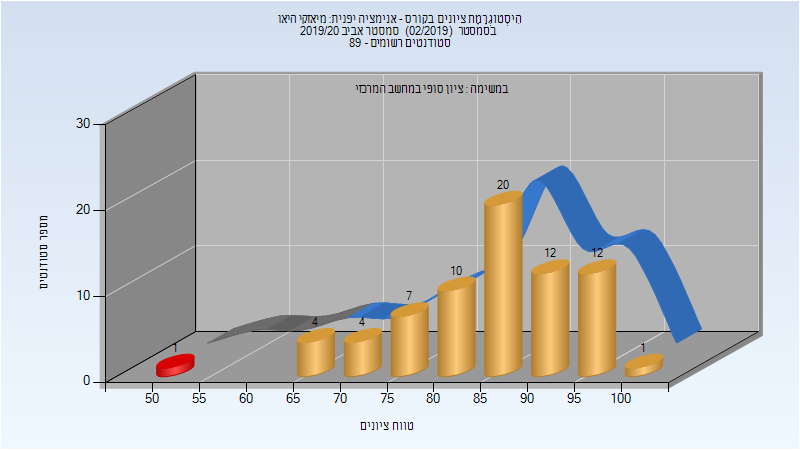
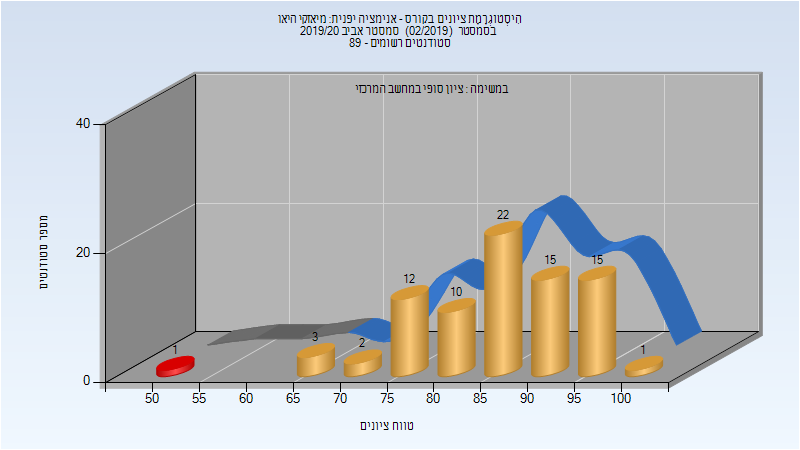
Deploy michael-maltsev/technion-histograms to github.com/michael-maltsev/technion-histograms.git:gh-pages

diff --git a/324259/index.html b/324259/index.html
@@ -120,13 +120,13 @@
 </thead>
 <tbody>
 <tr>
-<td>71</td>
-<td>70/1</td>
+<td>81</td>
+<td>80/1</td>
 <td>99</td>
-<td>53</td>
+<td>50</td>
 <td>100</td>
-<td>85.07</td>
-<td>85</td>
+<td>85.988</td>
+<td>88</td>
 </tr>
 </tbody>
 </table>

diff --git a/324259/README.md b/324259/README.md
@@ -32,5 +32,5 @@
 
 | סטודנטים | עברו/נכשלו | אחוז עוברים | ציון מינימלי | ציון מקסימלי | ממוצע | חציון |
 | ---- | ---- | ---- | ---- | ---- | ---- | ---- |
-| 71 | 70/1 | 99 | 53 | 100 | 85.07 | 85 |
+| 81 | 80/1 | 99 | 50 | 100 | 85.988 | 88 |
 
